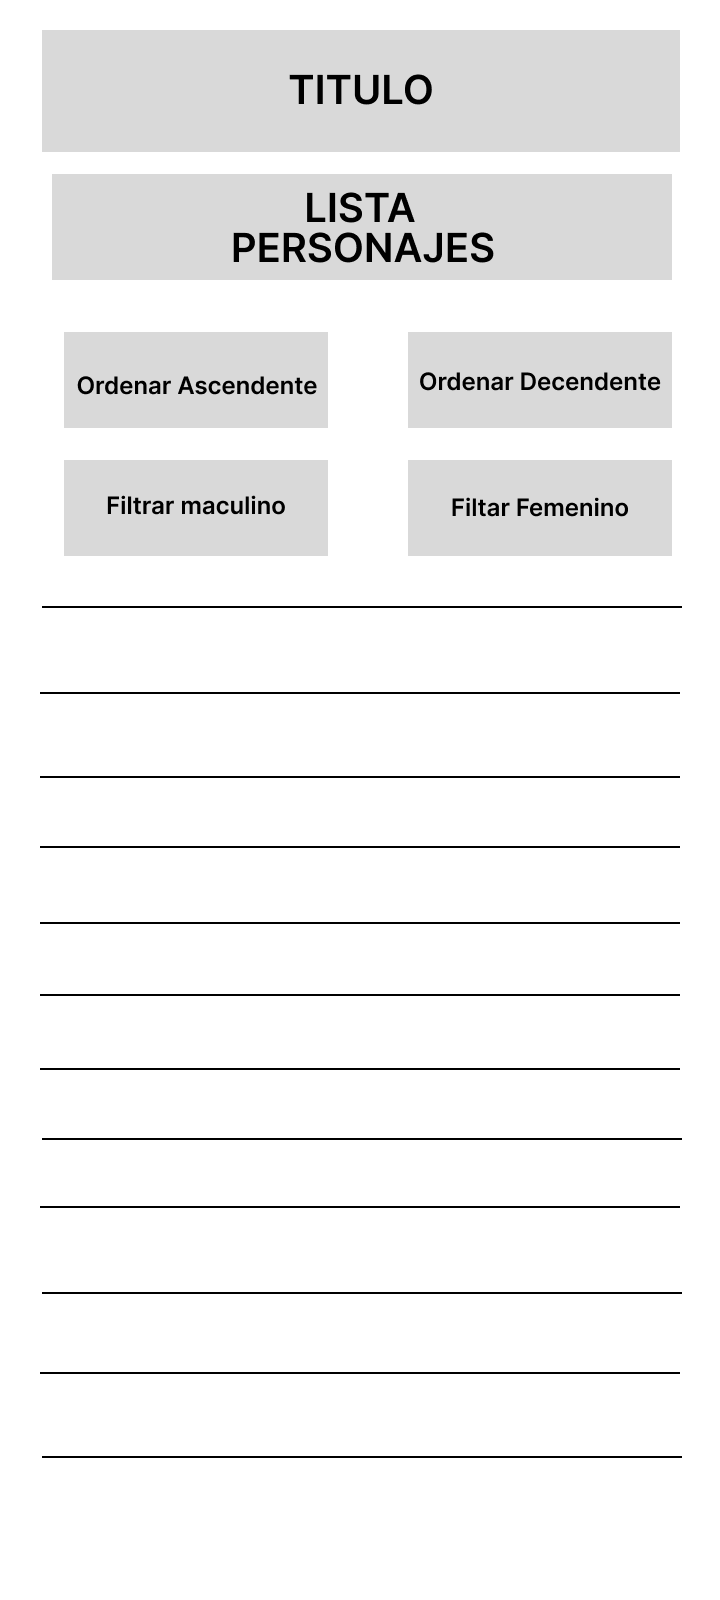
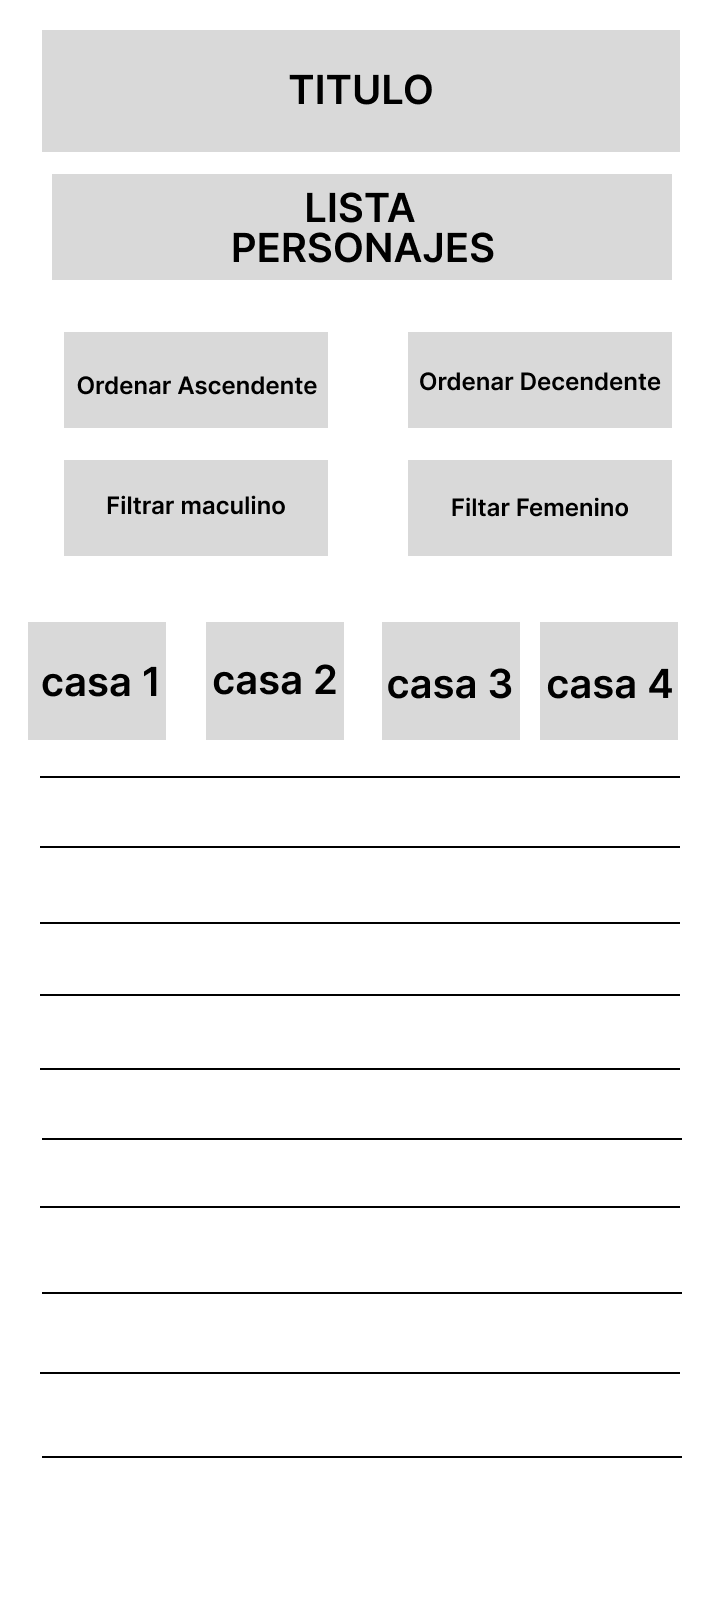
Complete README con prototipos de baja fidelidad de historias de usuarios, prototipo de alta fidelidad y bocetos papel y lapiz

Changed region(s): [[0.5194, 0.375, 0.9472, 0.4688], [0.275, 0.375, 0.4889, 0.4688], [0.0306, 0.375, 0.2444, 0.4688]]

diff --git a/src/main.js b/src/main.js
@@ -1,4 +1,4 @@
-import { filtrarCasas1 ,characters, gMasculino, gFemenino, filterAscendent, filterDescendent, personajesYcasas } from './data.js';
+import { filtrarCasas1 ,characters, gMasculino, gFemenino, filterAscendent, filterDescendent, personajesYcasas, } from './data.js';
 // import data from './data/lol/lol.js';
 import data from './data/harrypotter/data.js';
 // import data from './data/rickandmorty/rickandmorty.js';
@@ -62,6 +62,7 @@ let ordenDescendent = document.getElementById("filterDescendent");
 let filtroMasculino = document.getElementById("boton1")
 let filtroFemenino = document.getElementById("boton2")
 let personajesNameHouse = personajesYcasas(data);
+//let datosFiltrados = calcularPorcentaje(datos)
 
 //mostrar lista de personajes en pantalla
 listaElementos(characters(data));
@@ -76,6 +77,11 @@ function listaElementos(data) {
   });
 
 }
+//datosFiltrados.addEventListener("click", () =>{
+  //lista.innerHTML = "";
+  //listaElementos (calcularPorcentaje(datosFiltrados));
+//}
+//);
 
 //boton filtrar genero masculino
 filtroMasculino.addEventListener("click", () => {
@@ -105,3 +111,26 @@ ordenDescendent.addEventListener("click", () => {
   listaElementos(filterDescendent(personajesNameHouse));
 
 })
+
+//export const calcularPorcentaje = (datos){
+  //  console.log(calcularPorcentaje)
+    //let hombres = 0;
+    //let mujeres = 0;
+    //for(let i = 0; i < datos.length; i++ ){
+      //  if(datos[i].gender === "Female"){
+        //    mujeres++;
+        //}else{
+          //  hombres++;
+        //}
+    //}
+    
+    //let porcentajeMujeres = (mujeres / datos.length)*100;
+    //porcentajeMujeres = porcentajeMujeres.toFixed[1];
+    //let porcentajeHombres = (hombres / datos.length)*100;
+    //porcentajeHombres = porcentajeHombres.toFixed[1];
+    //return { porcentajeMujeres, porcentajeHombres};
+//} 
+
+
+
+

diff --git a/src/data.js b/src/data.js
@@ -52,9 +52,30 @@ export const filterAscendent = (array) => {
  }; 
 
 
- export const fallecidos = (data) => {
-let personajesF = data.characters
-let personajescasa= personajesF.filter(element =>element.house)
-let fallecidos=personajescasa.filter(element =>element.death)
-return fallecidos.length
- }
+
+//export const calcularPorcentaje = (datos){
+  //  console.log(calcularPorcentaje)
+    //let hombres = 0;
+    //let mujeres = 0;
+    //for(let i = 0; i < datos.length; i++ ){
+      //  if(datos[i].gender === "Female"){
+        //    mujeres++;
+        //}else{
+          //  hombres++;
+        //}
+    //}
+    
+    //let porcentajeMujeres = (mujeres / datos.length)*100;
+    //porcentajeMujeres = porcentajeMujeres.toFixed[1];
+    //let porcentajeHombres = (hombres / datos.length)*100;
+    //porcentajeHombres = porcentajeHombres.toFixed[1];
+    //return { porcentajeMujeres, porcentajeHombres};
+//} 
+
+
+ //export const fallecidos = (data) => {
+//let personajesF = data.characters
+//let personajescasa= personajesF.filter(element =>element.house)
+//let fallecidos=personajescasa.filter(element =>element.death)
+//return fallecidos.length
+ //}

diff --git a/README.md b/README.md
@@ -24,7 +24,7 @@
 
 ## 2. Resumen del proyecto
 
-En este proyecto se contruyo una _página web_ para usuarios fanaticos de Harry Potter, la cual nos permite visualizar un 
+En este proyecto se construyo una _página web_ para usuarios fanaticos de Harry Potter, la cual nos permite visualizar un 
 conjunto de datos que se adecúe a lo que nuestro usuario necesita.
 
 Esta  página web permite **visualizar la data, filtrarla, ordenarla y hacer algún cálculo agregado**. 
@@ -119,8 +119,7 @@ En sus tiempos libres, a modo de entretenimiento.
 
 - **Prototipo de baja fidelidad Historia de Usuario 3**
 
-![Alt text](prototipo-6.png)
-
+![Alt text](prototipo-3.png)
 ***
 
 **Historia de Usuario 4**
@@ -139,21 +138,23 @@ En sus tiempos libres, a modo de entretenimiento.
 
 - **Prototipo de baja fidelidad Historia de Usuario 4**
 
-
+![Alt text](prototipo-4.png)
 ***
 ## 6. Diseño de la Interfaz de Usuario
 
 
-* Prototipo de baja fidelidad
+- **Prototipo de baja fidelidad**
 
 bocetos (_sketches_) de tu solución usando papel y lápiz. 
 
+![Alt text](prototipo%20papel%20y%20lapiz%201.jpg)
 
-* Prototipo de alta fidelidad
+![Alt text](prototipo%20papel%20y%20lapi%202.jpg)
+
+- **Prototipo de alta fidelidad**
 
 Prototipo Figma
-
-![Alt text](prototipo-alta-fidelidad(1).png)
+![Alt text](prototipo-alta-fidelidad.png)
 
 ***
 ## 7. Testeos de usabilidad
